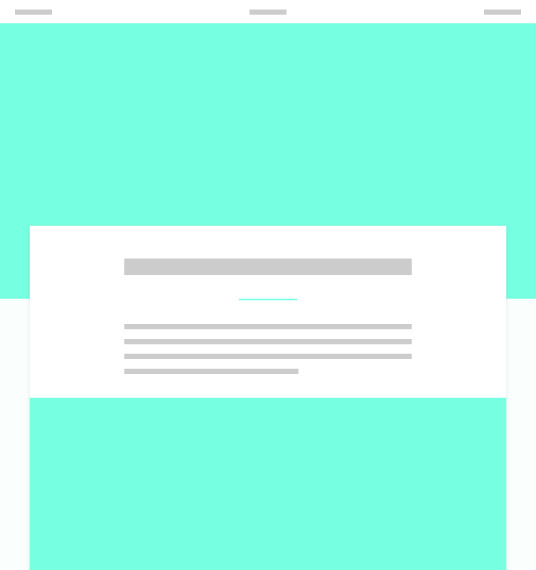
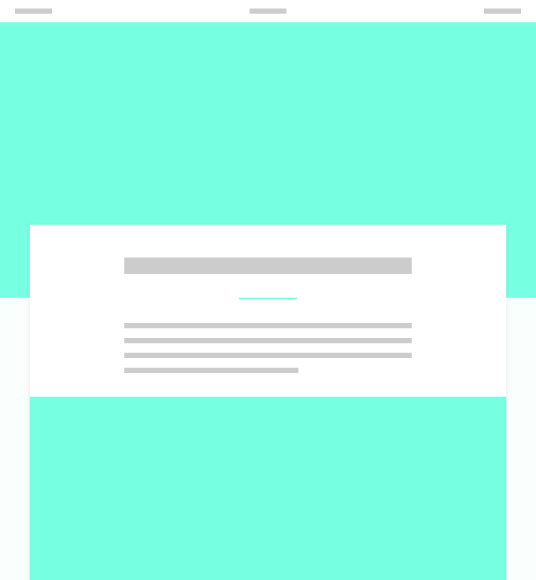
медиа запрос для 1180

diff --git a/stylesheets/landing.css b/stylesheets/landing.css
@@ -66,7 +66,7 @@ body.landing .menubar div {
   font-family: 'PT Sans', sans-serif;
   font-size: 21px;
   line-height: 36px;
-  margin-top: 27px;
+  margin-top: 26px;
 }
 
 .mainSection.center {
@@ -120,7 +120,7 @@ body.landing .menubar div {
   top: 232px;
   right: 160px;
   width: 530px;
-  height: 564px;
+  height: 568px;
   background-image: url(../images/landing/landing-mockup-1.jpg);
   box-shadow: 0px 2px 10px 0px rgba(0,0,0,0.1);
 }
@@ -129,7 +129,7 @@ body.landing .menubar div {
   top: 193px;
   left: 160px;
   width: 140px;
-  height: 316px;
+  height: 317px;
   background-image: url(../images/landing/landing-mockup-21.jpg);
   box-shadow: 0px 10px 10px 0px rgba(0,0,0,0.1);
 }
@@ -164,4 +164,76 @@ body.landing .menubar div {
   .landingWrapper {
     width: 100%;
   }
+}
+
+@media screen and (max-width: 1180px) {
+  body.landing.bg {
+    background-image: url(../images/mockups/1180_First_Breakpoint.png);
+    background-repeat: no-repeat;
+    background-position: top center;
+  }
+  .mainSection {
+    width: 1180px;
+    height: 800px;
+  }
+
+
+  .mainSection.center p {
+    margin-top: 26px;
+    margin-left: 4px;
+  }
+
+  .mainSection section {
+    top: 191px;
+    width: 485px;
+  }
+
+  .mainSection.left section{
+    left: 30px;
+  }
+
+  .mainSection.right section{
+    top: 191px;
+    right: 25px;
+  }
+
+  .mainSection.left section figure {
+    margin-left: 0;
+  }
+
+  .mainSection.right section figure {
+    margin-left: 0;
+  }
+
+  /*.mainSection.center section nav {
+    margin-top: 58px;
+  }*/
+
+  .mainSection.center section nav a {
+    margin: 0 6px;
+  }
+
+
+  #mockup1 {
+    right: 30px;
+    width: 530px;
+  }
+
+  #mockup21 {
+    left: 30px;
+  }
+
+  #mockup22 {
+    left: 203px;
+  }
+
+  #mockup23 {
+    left: 376px;
+  }
+
+  #mockup3 {
+    left: 510px;
+  }
+
+
 }

diff --git a/stylesheets/ui.css b/stylesheets/ui.css
@@ -32,18 +32,13 @@
 }
 
 @media screen and (max-width: 1180px) {
-  .small {
-    width: 180px;
-    height: 30px;
-    line-height: 30px;
-    font-size: 11px;
+  .green {
+    margin-top: 60px;
   }
 
-  .large {
-    width: 214px;
-    height: 36px;
-    line-height: 36px;
-    font-size: 12px;
-
+  .white {
+    margin-top: -4px;
   }
+
+
 }
